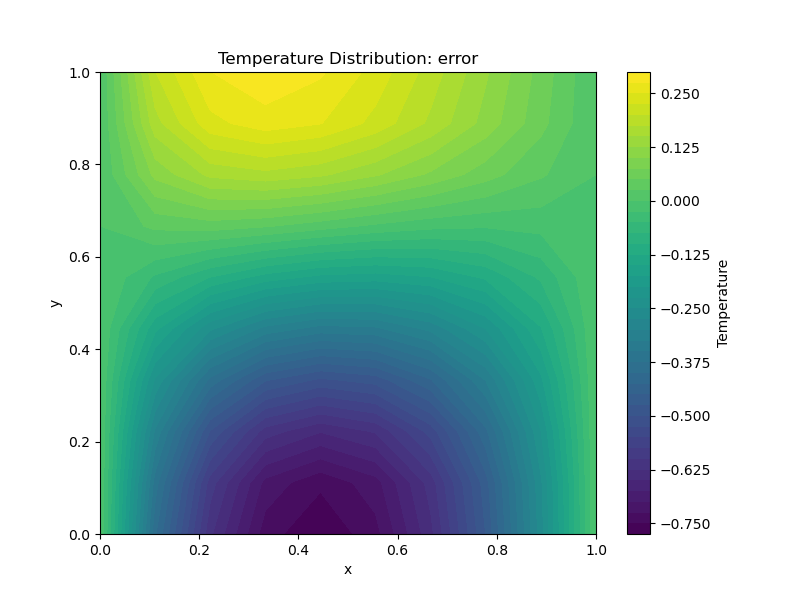
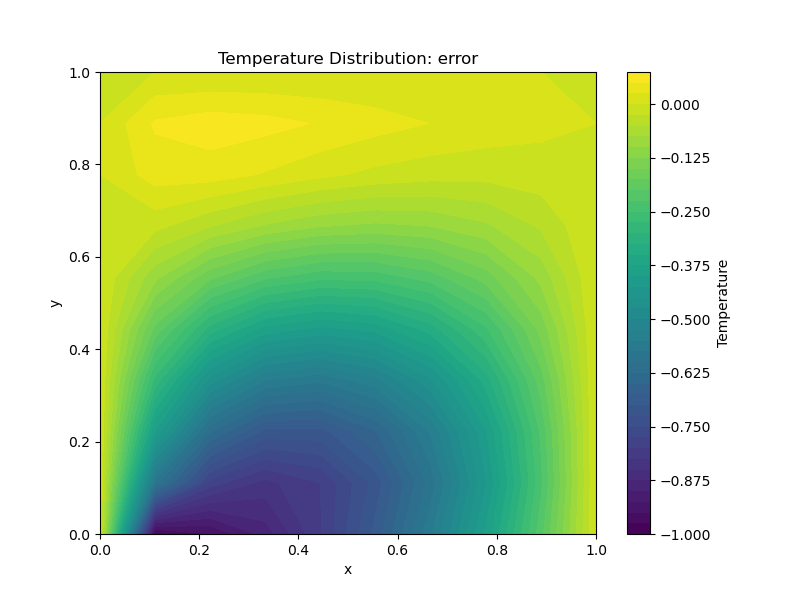
changes

diff --git a/homework2/poisson_solver.py b/homework2/poisson_solver.py
@@ -25,9 +25,8 @@ def main():
 
     (x, y), h = create_grid(N)
     Q = 4*y**3 - 6*y**2 + 2 - 6*(1 - x**2)*(2*y - 1)
-    T_initial = np.zeros((N, N))
-    if verbose:
-        print(f'x:\n{x}\ny:\n{y}\nT_initial:\n{T_initial}')
+    T_initial = (1 - x**2)*(2*y**3 - 3*y**2 + 1)
+    T_analytical = (1 - x**2)*(2*y**3 - 3*y**2 + 1)
 
     plot_solution(x, y, T_initial, 'initial', output_file='initial_solution.png')
 
@@ -44,7 +43,6 @@ def main():
         print(f'{method.capitalize()} method converged in {k} iterations.')
 
     plot_solution(x, y, T, method.capitalize(), output_file=f'{method}_solution.png')
-    T_analytical = (1 - x**2)*(2*y**3 - 3*y**2 + 1)
     plot_solution(x, y, T_analytical, 'analytical', output_file='analytical_solution.png')
     plot_solution(x, y, Q, 'source term Q', output_file='source_term_Q.png')
     plot_solution(x, y, T - T_analytical, 'error', output_file='error.png')
@@ -77,7 +75,7 @@ def jacobi_method(x, y, h, Q, T_initial, k_max, verbose):
 def apply_boundary_conditions(x, y, T):
     T[0, :] = T[1, :]
     T[-1, :] = T[-2, :]
-    T[:, 0] = 2*y[:, 0]**3 - 3*y[:, 0]**2 + 1
+    T[:, 0] = (1 - x[:, 0]**2)*(2*y[:, 0]**3 - 3*y[:, 0]**2 + 1)
     T[:, -1] = 0
 
 def plot_solution(x, y, T, method, output_file=None):
